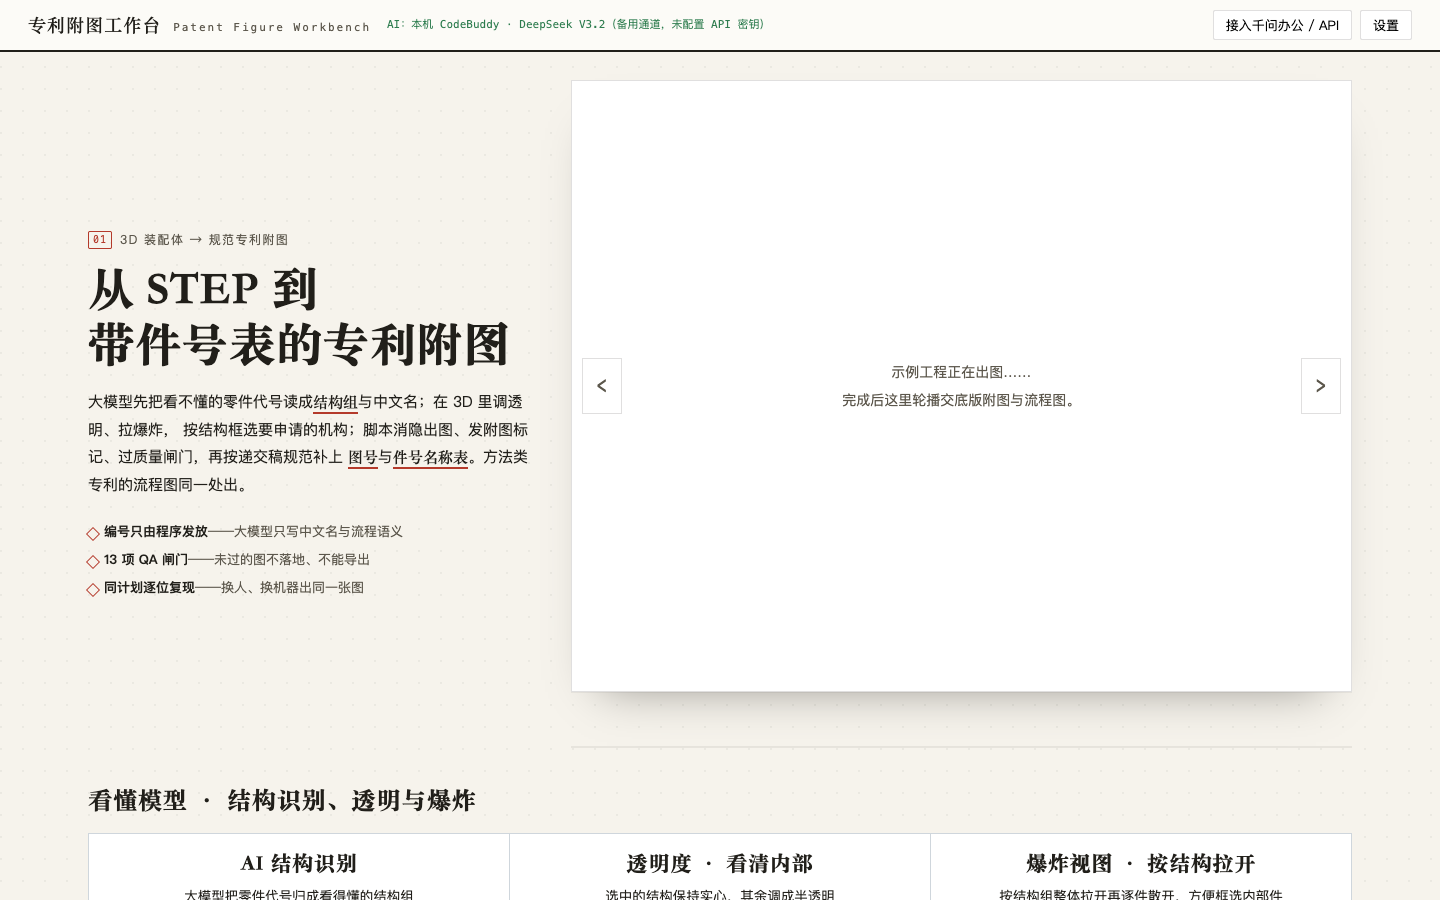
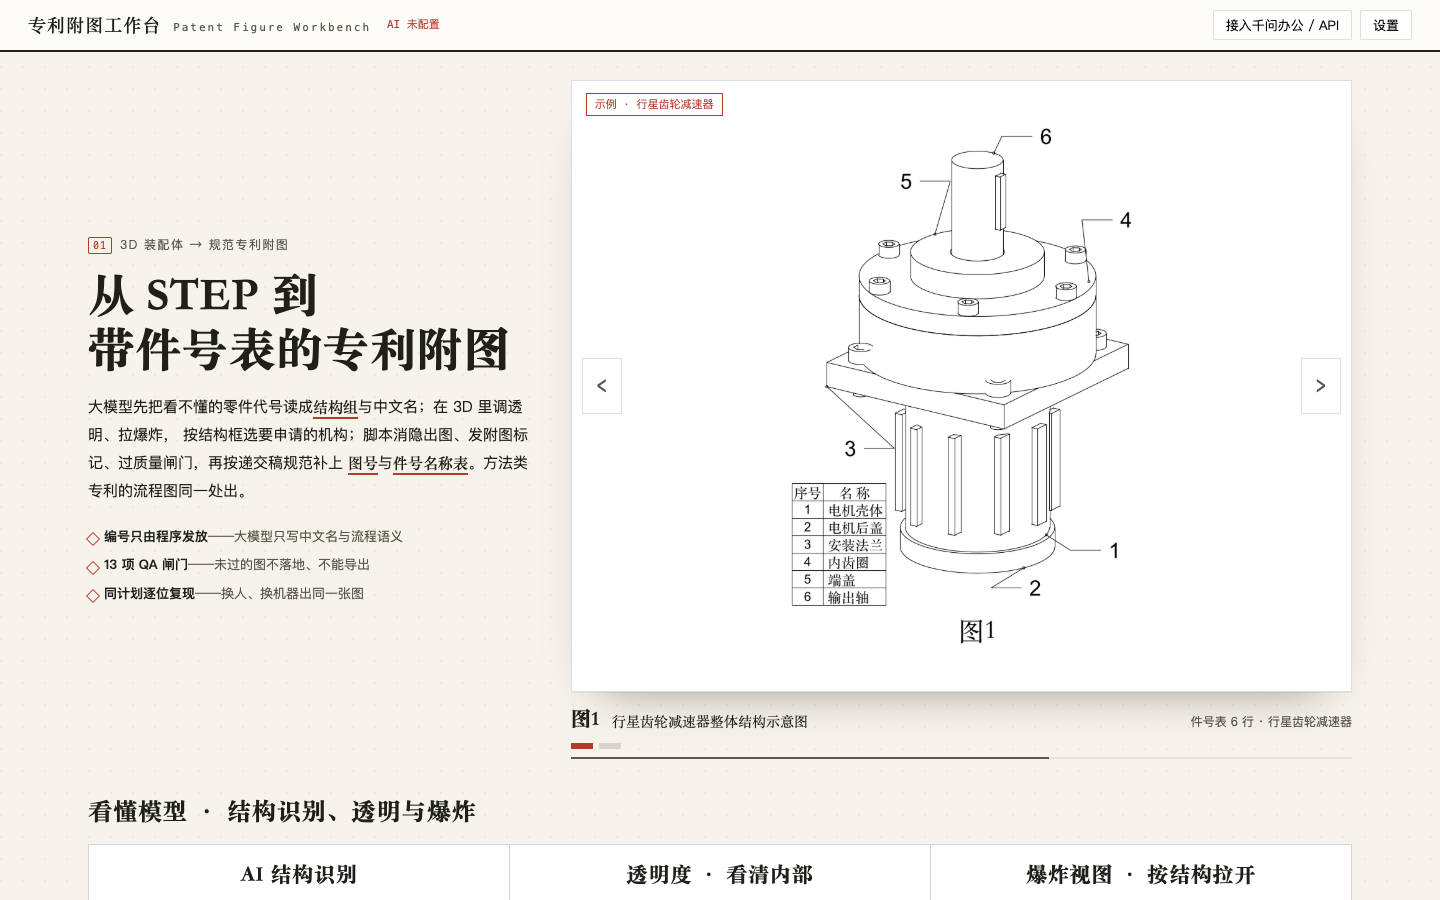
docs: 用行星齿轮减速器作为主案例图，新增 examples/planetary-gearbox
原先的示例是只有 8 种零件的合成模型，图太简单。换成仓库自带的公开演示装配体
（27 个零件实例：齿轮、轴承、油封、螺钉），展示整体结构图与齿轮系分解图。

- 新增 examples/planetary-gearbox：plan 与说明。plan 记录了拆图思路——
  整体图只放外部可见零件；油封被端盖遮住，按质量闸门的提示移出图1、改在图2标注
- README 的出图示例与界面截图全部换成该案例；合成示例保留为几秒跑完的冒烟测试
- docs/assets/capture.py 改为用该案例建工程，并显式关闭 AI 通道，
  避免重新截图时自动调用本机的大模型

验证：干净副本按 README 命令出图，2 张图 QA 全部通过；与首次渲染相比
DXF 只差时间戳与 GUID，几何一致。

diff --git a/docs/assets/capture.py b/docs/assets/capture.py
@@ -3,8 +3,9 @@
 
     python3 docs/assets/capture.py
 
-做法：用全新的临时数据目录与临时配置目录启动一个 Workbench 实例（只含合成示例工程，
-不读取、不写入 ~/.patent-workbench 与 ~/.config/patent-workbench），用 Playwright 截图后关闭。
+做法：用全新的临时数据目录与临时配置目录启动一个 Workbench 实例，
+用 examples/planetary-gearbox 的公开演示装配体建一个示例工程（与任何真实产品无关），
+不读取、不写入 ~/.patent-workbench 与 ~/.config/patent-workbench，也不调用任何大模型，用 Playwright 截图后关闭。
 需要：pip install playwright，以及本机 Chrome（找不到时改用 `playwright install chromium`）。
 """
 from __future__ import annotations
@@ -20,6 +21,7 @@ from pathlib import Path
 REPO = Path(__file__).resolve().parents[2]
 OUT = Path(__file__).resolve().parent
 PORT, TOKEN = 8795, "readme-capture"
+PROJECT = "example-gearbox"
 BASE = f"http://127.0.0.1:{PORT}"
 GL_ARGS = ["--use-angle=swiftshader", "--enable-unsafe-swiftshader", "--ignore-gpu-blocklist"]
 
@@ -47,9 +49,20 @@ def main() -> int:
 
     with tempfile.TemporaryDirectory() as tmp:
         env = dict(os.environ, PATENT_WORKBENCH_CONFIG=f"{tmp}/cfg", WORKBENCH_TOKEN=TOKEN)
+        # 显式关闭 AI 通道：不然建工程时会自动调用本机的 CodeBuddy / DeepSeek 做结构识别
+        (Path(tmp) / "cfg").mkdir()
+        (Path(tmp) / "cfg" / "config.json").write_text('{"provider": "none"}', encoding="utf-8")
+        step_dir = Path(tmp) / "step"
+        run = [sys.executable, str(REPO / "scripts/make_demo_assemblies.py"), "-o", str(step_dir)]
+        subprocess.run(run, check=True, env=env, stdout=subprocess.DEVNULL, stderr=subprocess.DEVNULL)
+        seed = [sys.executable, str(REPO / "scripts/workbench.py"), "--data", f"{tmp}/data", "seed",
+                "--step", str(step_dir / "demo-planetary-gearbox.stp"),
+                "--plan", str(REPO / "examples/planetary-gearbox/figure-plan.json"),
+                "--title", "行星齿轮减速器", "--id", PROJECT, "--example", "--render", "--order", "1"]
+        subprocess.run(seed, check=True, env=env, stdout=subprocess.DEVNULL)
         srv = subprocess.Popen(
             [sys.executable, str(REPO / "scripts/workbench.py"), "--data", f"{tmp}/data",
-             "serve", "--no-browser", "--port", str(PORT)],
+             "serve", "--no-browser", "--no-example", "--port", str(PORT)],
             env=env, stdout=subprocess.DEVNULL, stderr=subprocess.DEVNULL)
         try:
             wait_ready()
@@ -59,7 +72,7 @@ def main() -> int:
                 page.goto(f"{BASE}/?token={TOKEN}", wait_until="networkidle")
                 page.wait_for_timeout(2500)
                 page.screenshot(path=str(OUT / "shot-home.png"))
-                page.goto(f"{BASE}/p/example-synthetic/?token={TOKEN}", wait_until="networkidle")
+                page.goto(f"{BASE}/p/{PROJECT}/?token={TOKEN}", wait_until="networkidle")
                 page.wait_for_timeout(6000)  # 等 3D 模型加载与首轮渲染
                 page.screenshot(path=str(OUT / "shot-studio.png"))
                 browser.close()

diff --git a/README.md b/README.md
@@ -13,7 +13,7 @@
 
 <img src="docs/assets/shot-studio.png" width="92%" alt="Plan Studio：左侧零件列表，中间 3D 视图可点选与框选，右侧按图分组，下方是渲染结果与 QA 检查项">
 
-<sub>Plan Studio 界面。装配体是仓库自带的合成模型 <code>tests/fixtures/synthetic.stp</code>，不含任何真实产品数据。</sub>
+<sub>Plan Studio 界面，示例为行星齿轮减速器（27 个零件实例）。装配体由 <code>scripts/make_demo_assemblies.py</code> 生成，与任何真实产品无关。</sub>
 
 </div>
 
@@ -37,17 +37,17 @@
 <table>
   <tr>
     <td align="center" width="50%">
-      <img src="docs/assets/out-fig1-assembly.png" alt="装配图：七个零件各带引线与阿拉伯数字标号" width="85%"><br>
-      <sub><b>装配图</b> — 引线与标号自动避让，编号连续发放</sub>
+      <img src="docs/assets/out-fig1-assembly.png" alt="行星齿轮减速器整体结构图：六个零件各带引线与阿拉伯数字标号，左下角是件号表" width="95%"><br>
+      <sub><b>图1 整体结构图</b> — 引线与标号自动避让，附图标记连续发放，件号表自动生成</sub>
     </td>
     <td align="center" width="50%">
-      <img src="docs/assets/out-fig2-exploded.png" alt="分解图：四个零件沿轴线拉开，各带标号" width="85%"><br>
-      <sub><b>分解图</b> — 沿主轴自动拉开，图面角度按长宽比自动求解</sub>
+      <img src="docs/assets/out-fig2-exploded.png" alt="行星齿轮减速器齿轮系分解图：九种零件沿轴线拉开，各带标号" width="95%"><br>
+      <sub><b>图2 齿轮系分解图</b> — 沿主轴自动拉开，图面角度按长宽比自动求解</sub>
     </td>
   </tr>
 </table>
 
-另外还会输出 `reference-numerals.json`，其中有可直接粘进说明书的句子：「附图标记说明：1—底座；2—回转座；……」。
+上图由 [`examples/planetary-gearbox`](examples/planetary-gearbox/README.md) 生成，该示例还演示了如何按质量闸门的提示拆图。另外还会输出 `reference-numerals.json`，其中有可直接粘进说明书的句子：「附图标记说明：1—底座；2—回转座；……」。
 
 ### 主要能力
 
@@ -118,7 +118,19 @@ python3 scripts/render_patent_figure.py examples/synthetic/figure-plan.json --as
 
 预期结果：终端显示 `共 2 张图，全部通过`，`out/` 下出现 `fig1.dxf`、`fig2.dxf`、对应的预览 PNG 与 `reference-numerals.json`。
 
-### 5. 换成你自己的模型
+### 5. 试试更复杂的示例
+
+行星齿轮减速器：27 个零件实例，含齿轮、轴承和螺钉，本机实测约 10 秒内出图。
+
+```bash
+python3 scripts/make_demo_assemblies.py -o examples/planetary-gearbox
+python3 scripts/analyze_assembly.py examples/planetary-gearbox/demo-planetary-gearbox.stp -o assembly.json --include 'PGB-*'
+python3 scripts/render_patent_figure.py examples/planetary-gearbox/figure-plan.json --assembly assembly.json -o out/ --preview
+```
+
+预期结果：终端显示 `共 2 张图，全部通过`，即上方展示的图1与图2。
+
+### 6. 换成你自己的模型
 
 ```bash
 python3 scripts/analyze_assembly.py YOUR.stp -o assembly.json --include '*' --exclude '*SCREW*'
@@ -126,7 +138,7 @@ python3 scripts/analyze_assembly.py YOUR.stp -o assembly.json --include '*' --ex
 
 然后写自己的 `figure-plan.json`，格式见 [SKILL.md](SKILL.md)。也可以用浏览器界面点选生成，见[浏览器界面](#浏览器界面)一节。
 
-### 6. 运行验收（可选）
+### 7. 运行验收（可选）
 
 先装好第 2 步末尾的可选依赖，再运行：
 
@@ -206,7 +218,8 @@ scripts/                 全部命令行工具，内核在 patent_figure/
 webui/                   Workbench / Plan Studio 前端（内含 three.js）
 acceptance/              验收套件
 tests/                   单元测试与合成装配体
-examples/synthetic/      可直接运行的示例 plan 与产物
+examples/synthetic/      最小示例（几秒跑完）
+examples/planetary-gearbox/  进阶示例：27 个零件实例的行星齿轮减速器
 docs/assets/             README 用图及其生成脚本
 ```
 

diff --git a/docs/assets/README.md b/docs/assets/README.md
@@ -3,17 +3,19 @@
 | 文件 | 来源 | 重新生成 |
 | --- | --- | --- |
 | `shot-studio.png`、`shot-home.png` | 真实 Workbench 界面截图 | `python3 docs/assets/capture.py` |
-| `out-fig1-assembly.png`、`out-fig2-exploded.png` | 示例 plan 的真实渲染预览 | 见下 |
+| `out-fig1-assembly.png`、`out-fig2-exploded.png` | `examples/planetary-gearbox` 的真实渲染预览（交底版） | 见下 |
 
-**界面截图**：`capture.py` 会用全新的临时数据目录与配置目录启动一个独立实例，只含合成示例工程，
-不读写 `~/.patent-workbench` 与 `~/.config/patent-workbench`。需要 `pip install playwright` 与本机 Chrome
+**界面截图**：`capture.py` 会用全新的临时数据目录与配置目录启动一个独立实例，用行星齿轮减速器建一个示例工程，
+不读写 `~/.patent-workbench` 与 `~/.config/patent-workbench`，并显式关闭 AI 通道，不调用任何大模型。需要 `pip install playwright` 与本机 Chrome
 （没有 Chrome 时先执行 `playwright install chromium`）。
 
 **出图预览**：
 
 ```bash
-python3 scripts/analyze_assembly.py tests/fixtures/synthetic.stp -o /tmp/assembly.json --include 'SYN-*'
-python3 scripts/render_patent_figure.py examples/synthetic/figure-plan.json --assembly /tmp/assembly.json -o /tmp/out --preview
-cp /tmp/out/fig1.png docs/assets/out-fig1-assembly.png
-cp /tmp/out/fig2.png docs/assets/out-fig2-exploded.png
+python3 scripts/make_demo_assemblies.py -o examples/planetary-gearbox
+python3 scripts/analyze_assembly.py examples/planetary-gearbox/demo-planetary-gearbox.stp -o /tmp/assembly.json --include 'PGB-*'
+python3 scripts/render_patent_figure.py examples/planetary-gearbox/figure-plan.json --assembly /tmp/assembly.json -o /tmp/out --preview
+for n in 1 2; do python3 scripts/annotate_figure_sheet.py /tmp/out/fig$n.dxf --numerals /tmp/out/reference-numerals.json --figure-number $n -o /tmp/out/fig${n}_annotated.dxf --preview; done
+cp /tmp/out/fig1_annotated.png docs/assets/out-fig1-assembly.png
+cp /tmp/out/fig2_annotated.png docs/assets/out-fig2-exploded.png
 ```

diff --git a/examples/planetary-gearbox/README.md b/examples/planetary-gearbox/README.md
@@ -1,0 +1,26 @@
+# 示例：行星齿轮减速器（27 个零件实例，15 种零件）
+
+演示用装配体由 `scripts/make_demo_assemblies.py` 生成，与任何真实产品无关。齿轮齿形、轴承、油封、
+内六角螺钉都参与隐藏线消隐，比 `examples/synthetic/` 的合成模型复杂得多。
+
+```bash
+python3 scripts/make_demo_assemblies.py -o examples/planetary-gearbox
+python3 scripts/analyze_assembly.py examples/planetary-gearbox/demo-planetary-gearbox.stp \
+        -o assembly.json --include 'PGB-*'
+python3 scripts/validate_figure_plan.py examples/planetary-gearbox/figure-plan.json --assembly assembly.json
+python3 scripts/render_patent_figure.py examples/planetary-gearbox/figure-plan.json \
+        --assembly assembly.json -o out/ --preview
+```
+
+预期：`共 2 张图，全部通过`；`out/` 下有 `fig1.dxf`（整体结构图）、`fig2.dxf`（齿轮系分解图）、预览与 `reference-numerals.json`。
+
+## 这份 plan 的拆图思路
+
+27 个零件实例塞进一张图会被质量闸门拒绝（字高低于交付下限，或标号无处可放）。所以：
+
+- **图1 整体结构图**：只放从外面看得见的零件。行星销、行星架等内部件在整体图里被遮住，标不出来
+- **图2 齿轮系分解图**：把内部件沿主轴拉开，逐件标号
+- **油封**在整体图里几乎被端盖遮住，闸门报「引线锚点离几何过远」，按提示把它从图1的 `members` 中移除，改在图2里标注
+- 紧固螺钉设为 `label: "none"`：画出来，但不发标号
+
+生成的 `.stp` 与 `out/` 已被 `.gitignore` 忽略。
